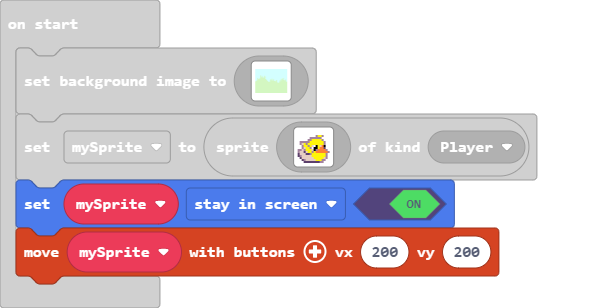
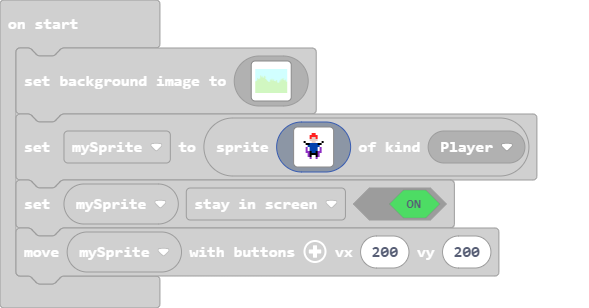
Update main.blocks, main.ts

Changed region(s): [[0.0, 0.3799, 0.8557, 0.9351]]

diff --git a/main.ts b/main.ts
@@ -122,21 +122,21 @@ scene.setBackgroundImage(img`
     `)
 let mySprite = sprites.create(img`
     . . . . . . . . . . . . . . . . 
+    . . . . . . . 2 2 . . . . . . . 
+    . . . . . . 2 2 2 2 . . . . . . 
+    . . . . . . 2 d d 2 . . . . . . 
+    . . . . . . d d d d . . . . . . 
+    . . . f . . . d d . . . f . . . 
+    . . . . f f 8 8 8 8 f f . . . . 
+    . . . . . 8 8 8 8 8 8 . . . . . 
+    . . . . a . 8 8 8 8 . a . . . . 
+    . . . . a . 8 8 8 8 . a . . . . 
+    . . . . a a f 8 8 f a a . . . . 
+    . . . . . a f f f f a . . . . . 
+    . . . . . a f . . f a . . . . . 
+    . . . . . . a . . a . . . . . . 
     . . . . . . . . . . . . . . . . 
-    . . . . . . . . . b 5 5 b . . . 
-    . . . . . . b b b b b b . . . . 
-    . . . . . b b 5 5 5 5 5 b . . . 
-    . b b b b b 5 5 5 5 5 5 5 b . . 
-    . b d 5 b 5 5 5 5 5 5 5 5 b . . 
-    . . b 5 5 b 5 d 1 f 5 d 4 f . . 
-    . . b d 5 5 b 1 f f 5 4 4 c . . 
-    b b d b 5 5 5 d f b 4 4 4 4 b . 
-    b d d c d 5 5 b 5 4 4 4 4 4 4 b 
-    c d d d c c b 5 5 5 5 5 5 5 b . 
-    c b d d d d d 5 5 5 5 5 5 5 b . 
-    . c d d d d d d 5 5 5 5 5 d b . 
-    . . c b d d d d d 5 5 5 b b . . 
-    . . . c c c c c c c c b b . . . 
+    . . . . . . . . . . . . . . . . 
     `, SpriteKind.Player)
 mySprite.setFlag(SpriteFlag.StayInScreen, true)
 controller.moveSprite(mySprite, 200, 200)
